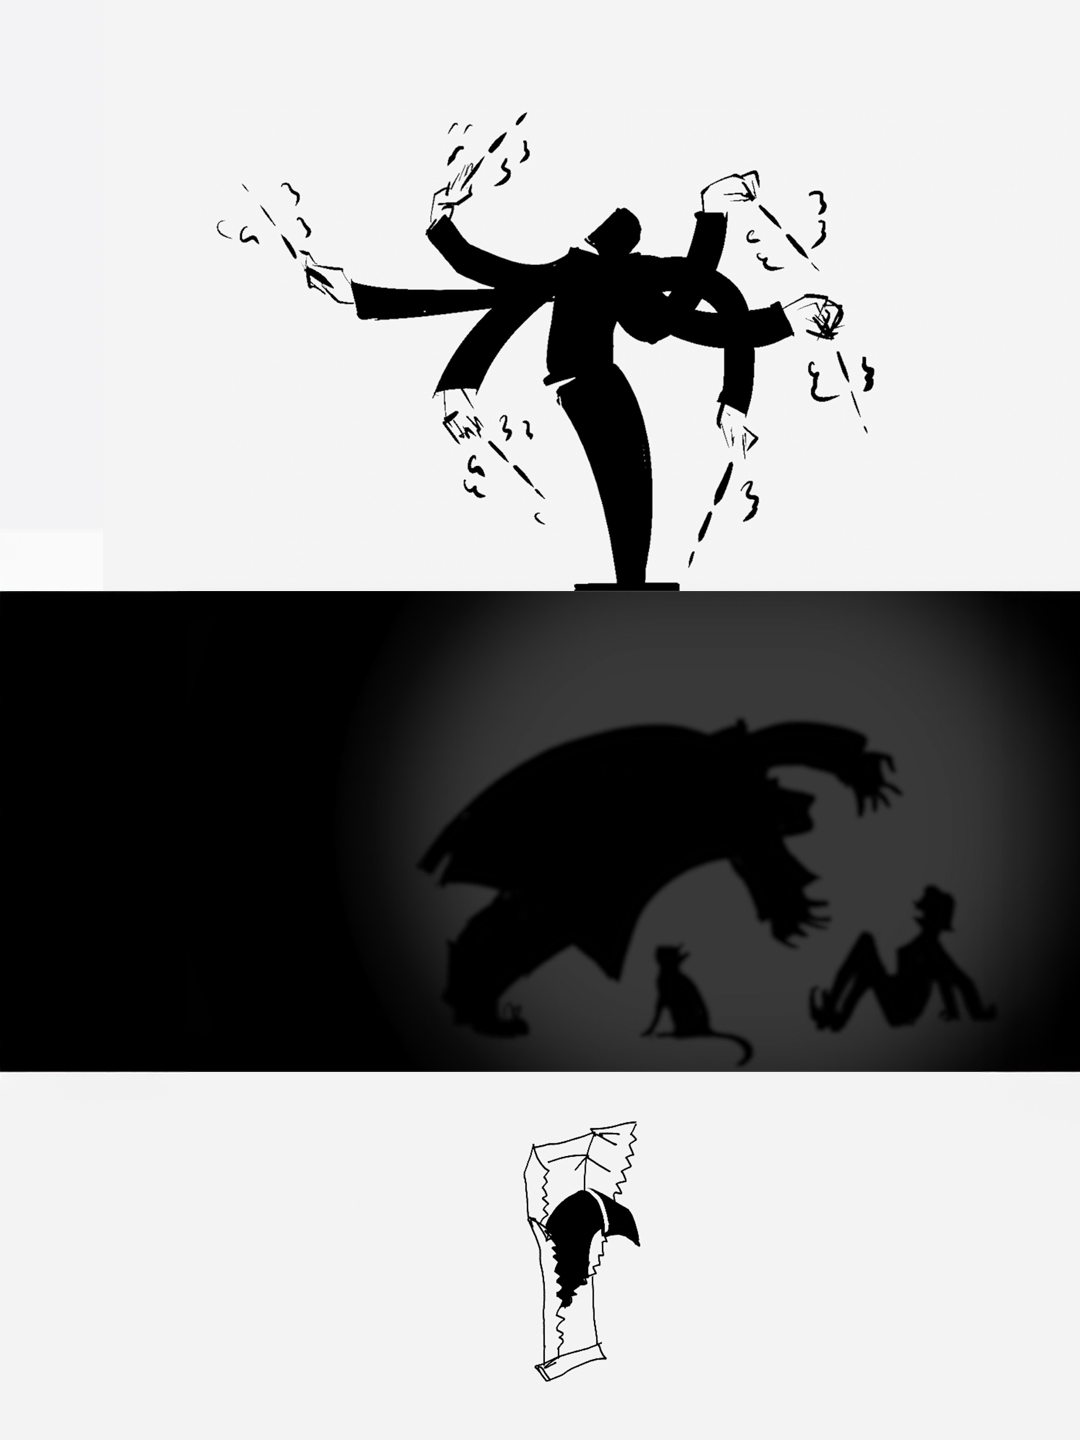
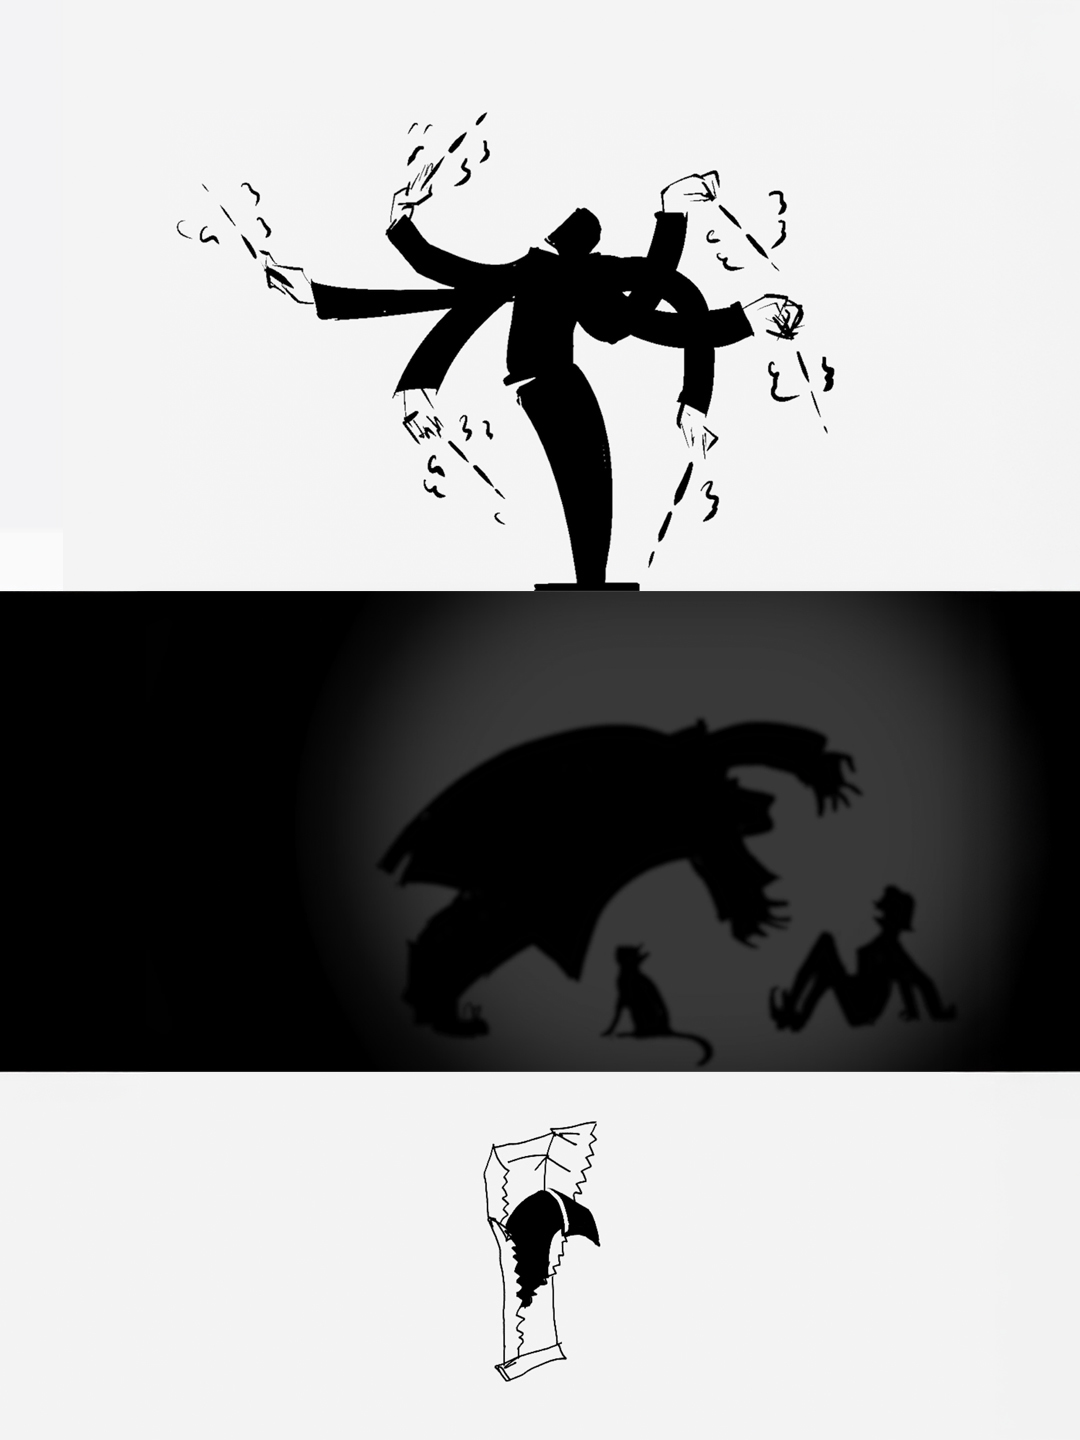
Fix mobile layout issues and update images
- Fixed white space after footer by setting proper body height
- Fixed OLENA KOVTASH jumping when navigating from burger menu
- Added Home link to burger menu on all pages
- Updated 16 mobile cover images with latest versions
- Set footer scroll-snap-align to end for clean finish
- Improved logo section layout with inline-flex
- Hidden main-content container properly on home page

🤖 Generated with [Claude Code](https://claude.com/claude-code)

diff --git a/styles.css b/styles.css
@@ -480,6 +480,14 @@ html {
     gap: 0px;
 }
 
+.mobile-logo-section a {
+    display: inline-flex;
+    align-items: center;
+    text-decoration: none;
+    color: inherit;
+    line-height: 0;
+}
+
 .mobile-logo {
     width: 81px;
     height: auto;
@@ -489,13 +497,19 @@ html {
     font-size: 20px;
     font-weight: bold;
     letter-spacing: 0.5px;
-    display: inline;
+    display: inline-block;
+    line-height: 1;
+    margin: 0;
+    padding: 0;
 }
 
 .mobile-name-link {
     text-decoration: none;
     color: inherit;
-    display: inline;
+    display: inline-block;
+    line-height: 1;
+    margin: 0;
+    padding: 0;
 }
 
 .mobile-header-icons {
@@ -686,6 +700,9 @@ html {
         text-align: center;
         position: relative;
         height: auto;
+        margin: 0;
+        width: 100vw;
+        scroll-snap-align: end;
     }
 
     .mobile-footer-line {
@@ -697,6 +714,7 @@ html {
         color: #ffffff;
         text-decoration: none;
         transition: opacity 0.3s ease;
+        line-height: 0;
     }
 
     .mobile-instagram-link:hover {
@@ -707,6 +725,7 @@ html {
         width: 20px;
         height: 20px;
         color: #ffffff;
+        display: block;
     }
 }
 
@@ -734,18 +753,24 @@ html {
         display: none !important;
     }
 
-    html, body {
+    html {
         margin: 0;
         padding: 0;
         overflow-x: hidden;
         height: 100%;
     }
 
+    body {
+        margin: 0;
+        padding: 0;
+        overflow-x: hidden;
+        min-height: 100vh;
+    }
+
     body.home-page {
         overflow-y: scroll;
         scroll-snap-type: y mandatory;
         scroll-behavior: smooth;
-        height: auto;
     }
 
     .mobile-carousels-container {
@@ -755,7 +780,15 @@ html {
         padding: 0;
     }
 
-    .container {
+    body.home-page .container {
+        display: none !important;
+        margin: 0;
+        padding: 0;
+        height: 0;
+        overflow: hidden;
+    }
+
+    body:not(.home-page) .container {
         margin: 0;
         padding: 0;
     }

diff --git a/index.html b/index.html
@@ -241,6 +241,7 @@
             </div>
         </div>
         <div class="mobile-burger-menu" id="mobile-burger-menu">
+            <a href="index.html">Home</a>
             <a href="about.html">About</a>
             <a href="contact.html">Contact</a>
             <div class="mobile-menu-divider">PROJECTS</div>

diff --git a/about.html b/about.html
@@ -29,6 +29,7 @@
             </div>
         </div>
         <div class="mobile-burger-menu" id="mobile-burger-menu">
+            <a href="index.html">Home</a>
             <a href="about.html">About</a>
             <a href="contact.html">Contact</a>
             <div class="mobile-menu-divider">PROJECTS</div>

diff --git a/contact.html b/contact.html
@@ -29,6 +29,7 @@
             </div>
         </div>
         <div class="mobile-burger-menu" id="mobile-burger-menu">
+            <a href="index.html">Home</a>
             <a href="about.html">About</a>
             <a href="contact.html">Contact</a>
             <div class="mobile-menu-divider">PROJECTS</div>
